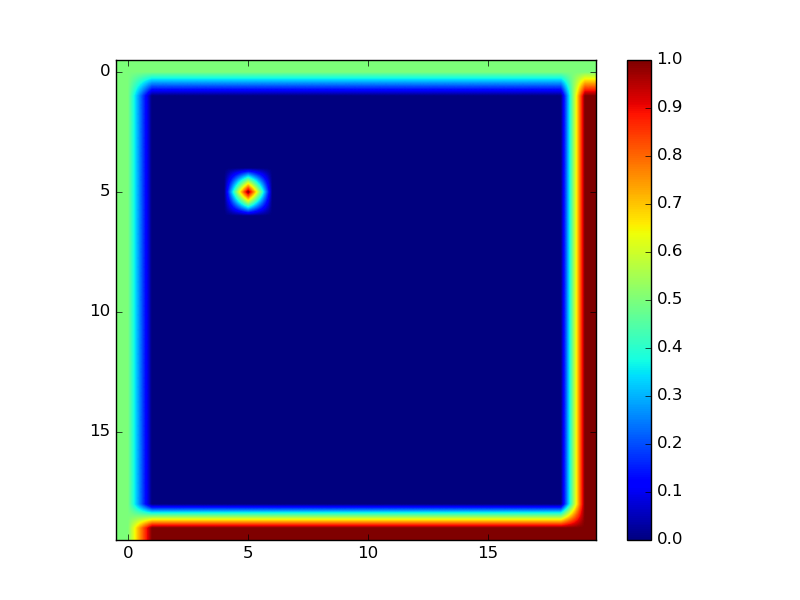
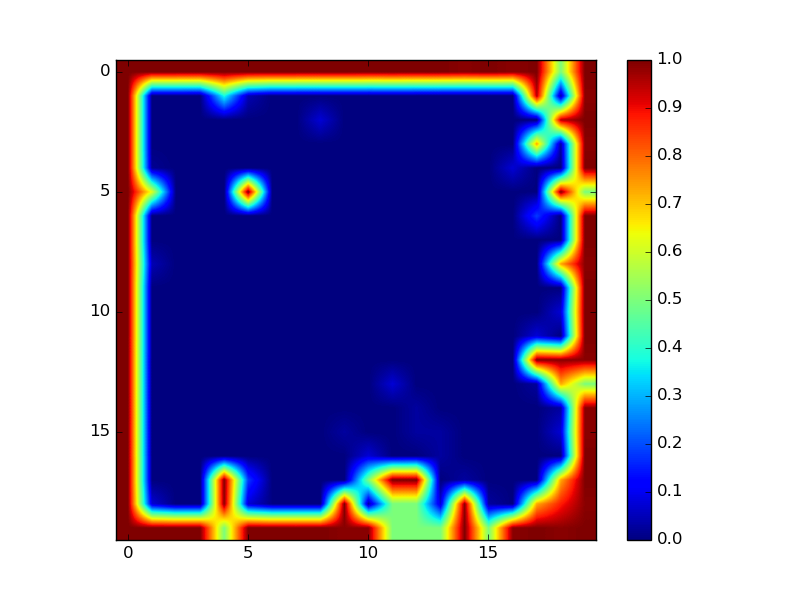
Fixed Issue #23

Changed region(s): [[0.125, 0.09, 0.75, 0.9], [0.25, 0.75, 0.3438, 0.9]]

diff --git a/Mapping/Map.py b/Mapping/Map.py
@@ -14,7 +14,7 @@ from user_utils import plot
 np.set_printoptions(precision=3)
 np.set_printoptions(suppress=True)
 plt.style.use('classic')
-norm_scale = 1000
+norm_scale = 5
 
 dim = (20,20)
 pos = (5,5)
@@ -30,17 +30,27 @@ lidar.make_path() #make directory to save the examples
 path = lidar.path 
 
 
-measure = lidar.simulate(show=False,noise=False)
+measure = lidar.simulate(show=False,noise=True)
+
 
 
 for i in range(len(measure)):
 
     occ = (np.matmul( rotation(measure[i][1]), [measure[i][0],0] ) + pos).astype(int)
-
-    #If the value is out of range, do nothing here
-    if (0<occ[0]<dim[0]) and (0<occ[1]<dim[1]):
-        carte[occ[0]][occ[1]] += logodd_occ
-
+    #Take care of boundaries
+    if occ[0]<0:
+        occ[0] = 0
+    if occ[1]<0:
+        occ[1] = 0
+    if occ[0]>=dim[0]:
+        occ[0] = dim[0]-1
+    if occ[1]>=dim[1]:
+        occ[1] = dim[1]-1
+        
+   
+    carte[occ[0]][occ[1]] += logodd_occ
+  
+        
     #Draw a line Lidar <-> Point, and register all points on the line as unoccupied (the lidar would have detected if not)
     rr, cc = line(occ[0],occ[1],pos[0],pos[1])
     for i in range(len(rr)):
@@ -48,6 +58,7 @@ for i in range(len(measure)):
         y = cc[i]
         if (x!=occ[0] or y!=occ[1]) and (0<x<dim[0]) and (0<y<dim[1]):
             carte[x][y] -= logodd_free
+
 
 
 scaled_carte = expit(carte*norm_scale)
